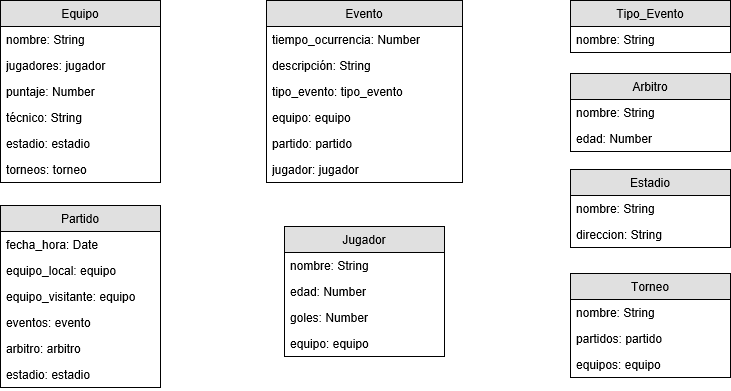
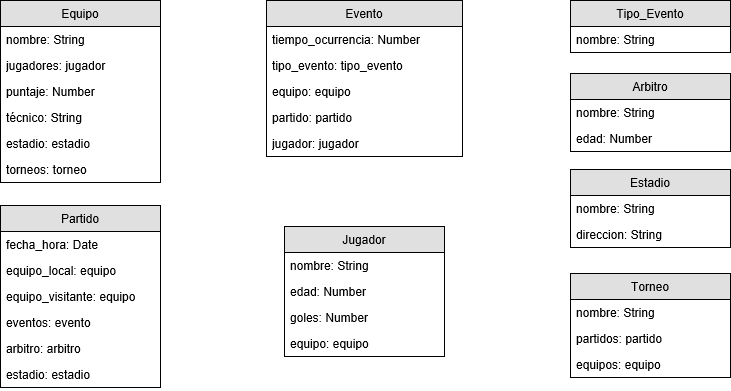
mas rutas agregadas

Changed region(s): [[0.3611, 0.2762, 0.5116, 0.4604], [0.3611, 0.2148, 0.5718, 0.2455], [0.3611, 0.1535, 0.5718, 0.1841]]

diff --git a/Backend/app/routes/jugador.js b/Backend/app/routes/jugador.js
@@ -4,7 +4,9 @@ var router=require('express').Router()
 
 //GET ALL
 router.get('/', (req, res, next) => {
-  Jugador.find(function (err, result) {
+  Jugador.find().
+  populate('equipo').
+  exec(function (err, result) {
     if (err) {
       res.status(500).send(err);
     }
@@ -19,7 +21,9 @@ router.get('/', (req, res, next) => {
 
 //GET ONE
 router.get('/:id', (req, res, next) => {
-  Jugador.findOne({_id: req.params.id}, function (err, result) {
+  Jugador.findOne({_id: req.params.id}).
+  populate('equipo').
+  exec(function (err, result) {
     if (err) {
       res.status(500).send(err);
     } 
@@ -35,9 +39,11 @@ router.get('/:id', (req, res, next) => {
 router.post('/', (req, res, next) => {
   let nombre=req.body.nombre;
   let edad=req.body.edad;
+  let equipo=req.body.equipo;
   var jugadorNuevo = new Tipo_evento({
       nombre: nombre,
-      edad: edad
+      edad: edad,
+      equipo: equipo
   })
   jugadorNuevo.save((err, result) => {
     if(err){
@@ -51,12 +57,14 @@ router.post('/', (req, res, next) => {
 
 //UPDATE
 router.put('/:id', (req, res, next) => {
-  Tipo_evento.findOne({_id: req.params.id}, function (err, result) {
+  Jugador.findOne({_id: req.params.id}, function (err, result) {
     if (err) {
       res.status(500).send(err);
     } 
     else if (result) {
       result.nombre = req.body.nombre || result.nombre;
+      result.edad = req.body.edad || result.edad;
+      result.equipo = req.body.equipo || result.equipo;
       result.save((err, resultado) => {
         if(err) {
           res.status(500).send(err)
@@ -67,27 +75,27 @@ router.put('/:id', (req, res, next) => {
       });
     }
     else {
-      res.send("No existe el tipo de evento que desea modificar");
+      res.send("No existe el Jugador que desea modificar");
     }
   });
 });
 
 //DELETE ONE
 router.delete('/:id', (req, res, next) => {
-  Tipo_evento.findOne({_id: req.params.id}, function (err, result) {
+  Jugador.findOne({_id: req.params.id}, function (err, result) {
     if (err) {
       res.status(500).send(err);
     }
     else if(result) {
-      result.remove((err, deleteTipo_evento) => {
+      result.remove((err, deleteJugador) => {
         if(err) {
           res.status(500).send(err);
         }
-        res.status(200).send(deleteTipo_evento);
+        res.status(200).send(deleteJugador);
       })
     }
     else {
-      res.send("No existe ese tipo de evento");
+      res.send("No existe ese Jugador");
     }
   });
 });

diff --git a/Backend/app/routes/evento.js b/Backend/app/routes/evento.js
@@ -10,6 +10,7 @@ router.get('/', (req, res, next) => {
     populate('tipo_evento').
     populate('partido').
     populate('equipo').
+    populate('jugador').
     exec(function (err, evento) {
       if (err) {
         res.send(err);
@@ -30,6 +31,7 @@ router.get('/:id', (req, res, next) => {
     populate('tipo_evento').
     populate('partido').
     populate('equipo').
+    populate('jugador').
     exec(function (err, evento) {
       if (err) {
         res.send(err);
@@ -50,23 +52,28 @@ router.post('/', (req, res, next) => {
       res.send(err);
     }
     else if (correcto) {
-      let fecha_horaNuevo = req.body.fecha_hora;
-      let partidoNuevo = req.body.partido;
-      let tipo_eventoNuevo = req.body.tipo_evento;
-      let equipoNuevo = req.body.equipo;
-      var eventoNuevo = new Evento({
-        fecha_hora: fecha_horaNuevo,
-        partido: partidoNuevo,
-        tipo_evento: tipo_eventoNuevo,
-        equipo: equipoNuevo
-      })
+      if(req.body.tiempo_ocurrencia <= 90 && req.body.tiempo_ocurrencia >= 0) {
+        let tiempo_ocurrenciaNuevo = req.body.tiempo_ocurrencia;
+        let partidoNuevo = req.body.partido;
+        let tipo_eventoNuevo = req.body.tipo_evento;
+        let equipoNuevo = req.body.equipo;
+        let jugadorNuevo = req.body.jugador;
+        var eventoNuevo = new Evento({
+          tiempo_ocurrencia: tiempo_ocurrenciaNuevo,
+          partido: partidoNuevo,
+          tipo_evento: tipo_eventoNuevo,
+          equipo: equipoNuevo,
+          jugador: jugadorNuevo
+        })
+      }
+      
       eventoNuevo.save((err, eventoCreado)=> {
         if(err){
           res.send(err);
         }
         else {          
           if(correcto.fecha_hora <= eventoCreado.fecha_hora) { 
-            correcto.fecha_hora.setHours(correcto.fecha_hora.getHours() + 2);
+            //correcto.fecha_hora.setHours(correcto.fecha_hora.getHours() + 2);
             if(correcto.fecha_hora >= eventoCreado.fecha_hora) {
               correcto.eventos.push(eventoCreado);
               correcto.save((err, resultado) => {
